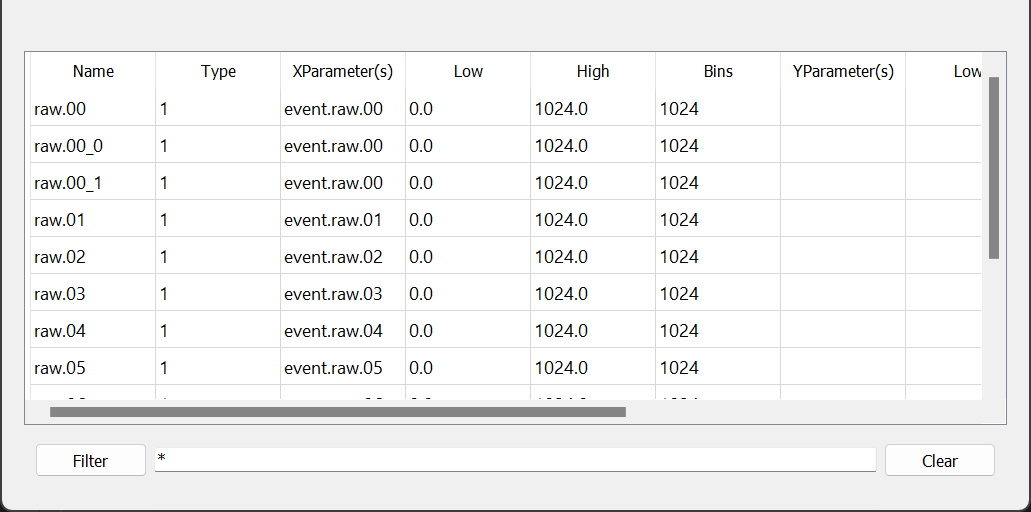
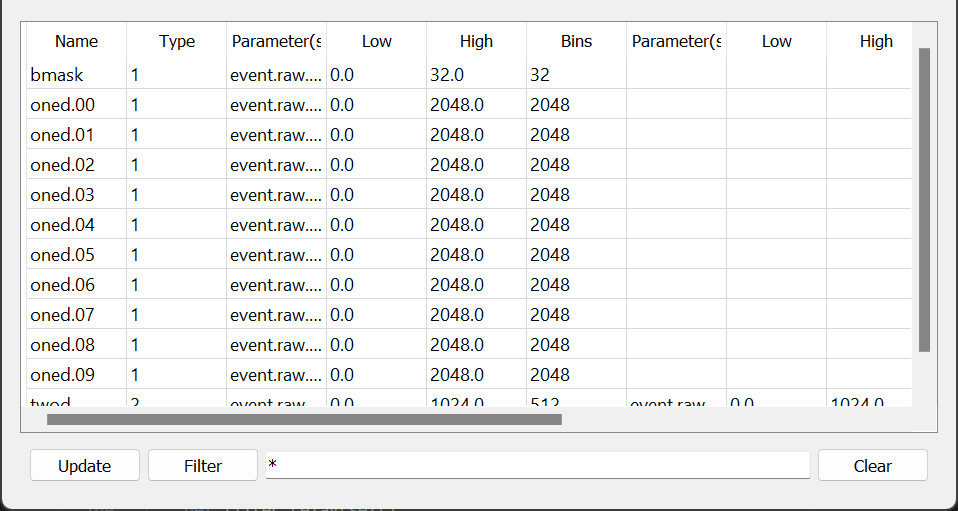
Update docs to reflect the changes in the SpecTclPythonGUI Spectrum filter handling and controls.

diff --git a/docs/src/chap4_1.md b/docs/src/chap4_1.md
@@ -38,7 +38,9 @@ The Spctrum listing part of the Spectrum Tab looks like this:
 
 Note that you can stretch the listing horizontally and, if you stretch the entire GUI vertically, all additional space is added to the listing.
 
-Let's start with the controls at the bottom of the listing.  The ```Filter``` button updates the listing to only show the spectra with names that match the pattern in the editable text field to its right.  This pattern can contain any filesystem wild card characters.  The ```Clear``` button clears the pattern back to the default ```*```, which matches all spectra and updates the list.
+Let's start with the controls at the bottom of the listing.
+The ```Update``` buttons loads the current spectrum definitions from the histogram program.  The displayed list is also updated.
+  The ```Filter``` button updates the listing to only show the spectra with names that match the pattern in the editable text field to its right.  Note that the ```Filter``` button does _not_ update the list from the server, it only filters the last loaded spectrum list.  The filter pattern can contain any filesystem wild card characters.  The ```Clear``` button clears the pattern back to the default ```*```, which matches all spectra and updates the list.
 
 The columns on the table reflect the contents of the column for each spectrumin the list.  From left to right:
 
